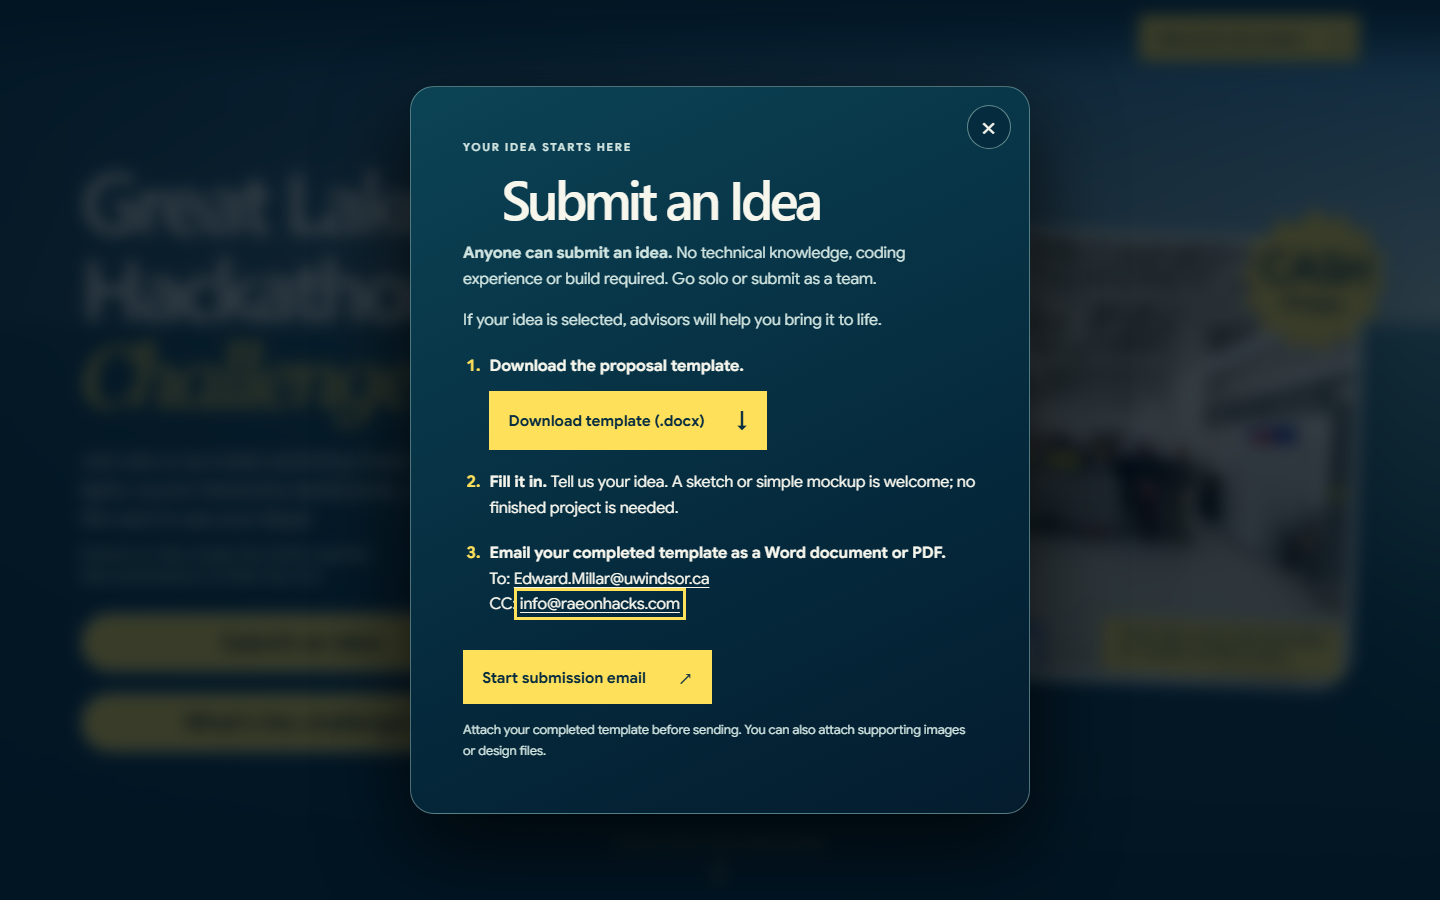
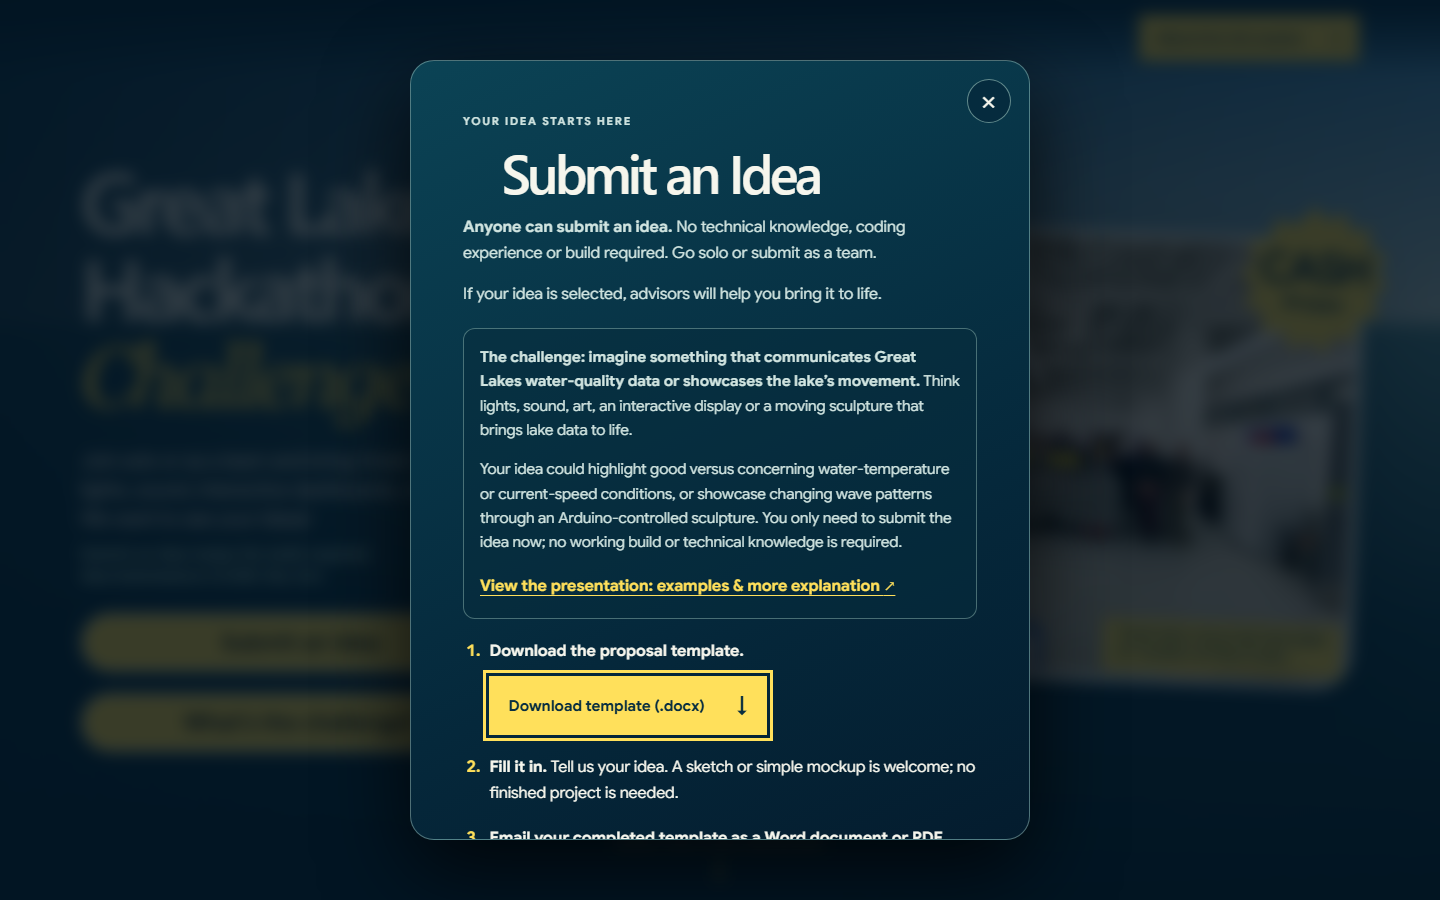
Add presentation and lake movement submission guidance

Changed region(s): [[0.2812, 0.0622, 0.7188, 0.9333]]

diff --git a/src/styles/glhc003.css b/src/styles/glhc003.css
@@ -115,6 +115,9 @@ html.intro-active{overflow:hidden}
 .submission-steps a:not(.button){overflow-wrap:anywhere;text-underline-offset:3px}
 .submission-download,.submission-email{margin-top:.75rem;min-height:44px;font-size:.95rem;white-space:normal}
 .submission-note{font-size:.8rem;margin:1rem 0 0}
+.submission-inspiration{padding:1rem;border:1px solid #b9e3d560;border-radius:12px;background:#052b3b80;margin:1.25rem auto;max-width:620px}
+.submission-inspiration p{font-size:.95rem}
+.submission-presentation{display:block;color:var(--yellow);font-weight:700;line-height:1.5;text-underline-offset:4px;overflow-wrap:anywhere;padding:.25rem 0}
 .submission-fallback>.submission-email{display:flex;width:fit-content;margin-inline:auto}
 .info-session-dialog{position:fixed;inset:0;width:min(620px,calc(100% - 1.5rem));max-width:620px;max-height:min(90dvh,780px);margin:auto;padding:0;border:1px solid #9ac2bc80;border-radius:24px;overflow:auto;background:linear-gradient(155deg,#0b4355,#05283b 65%,#041c2e);box-shadow:0 30px 85px #000b;color:#f6f6ed}
 .info-session-dialog::backdrop{background:rgba(1,14,25,.78);backdrop-filter:blur(8px)}

diff --git a/LOG.md b/LOG.md
@@ -277,3 +277,9 @@
 - Both To/CC instructions match website addresses. Hosted byte-for-byte unchanged,39,312 bytes,SHA2568debde5c40602d83d5041df0c77cfad304d7b09f5ebaebb822b52052e70e2850. Updated repeatable UAT expected hash.
 - Verification: production build/diff pass; local HTTP200 download exactly matches final organizer attachment. Evidence updated-template-results.json. No layout/application change; prior full UI UAT remains applicable, earlier binary hashes historical. No merge/deployment/email sent.
 - Status: done; publish review handoff to PR#8. Next action: organizer review.
+
+### 2026-11-05 - Presentation and lake-movement submission guidance
+- Task: add organizer presentation before DOCX download and clarify eligible ideas. Status: done, PR#8 follow-up. Active launch initiative retained; synced main8420ade, preserved unrelated files.
+- Changed: shared modal/no-JS instructions include exact supplied SharePoint URL with secure new-tab semantics. Emphasize water-quality data OR lake movement, temperature/current examples and Arduino-controlled wave-pattern sculpture. Retain idea-only/no-technical-knowledge invitation and advisor support.
+- Verification: production build/diff pass; four-size production-preview UAT at320x568,393x852,1440x900,568x320 confirms exact URL/attributes/order before download, expanded copy, no horizontal overflow, modal keyboard/close behavior and unchanged download hash. Narrow screenshot visually reviewed. Updated evidence in uat/glhc003/submission-launch/. Existing Vite warning remains.
+- Live state: presentation could not be retrieved by web tool, so content/public sharing access not claimed. No merge/deployment/email. Next action: organizer reviews updated PR#8. Commit: published handoff.

diff --git a/NOW.md b/NOW.md
@@ -186,3 +186,7 @@ Next action: organizer reviews launch PR, updates the template, then authorizes
 merge/deployment. No production deployment or external email sent.
 
 Final template follow-up (2026-11-05): organizer supplied complete replacement DOCX, hosted unchanged on PR#8. Both submission instructions now use Edward.Millar@uwindsor.ca and CC info@raeonhacks.com, matching the modal. Template-address issue resolved. Build and exact HTTP download checks pass; evidence uat/glhc003/submission-launch/updated-template-results.json. Prior template references/hashes are historical. Next action: organizer reviews PR#8. No merge/deployment performed.
+
+Submission guidance follow-up (2026-11-05): before the DOCX download, both modal and no-JS instructions include the organizer-supplied SharePoint presentation link (secure new tab) and explain that ideas may communicate water-quality data OR showcase lake movement. Examples include temperature/current-speed conditions and an Arduino-controlled sculpture reflecting wave patterns. Idea-only submissions require no technical knowledge or working build. Presentation content/public sharing could not be verified through web access; do not claim it was inspected.
+
+Presentation guidance verification: build/diff and four-size production-preview UAT pass; exact link/order/security attributes, revised water/lake-movement copy and modal fit/focus/download checked. Evidence refreshed in uat/glhc003/submission-launch/. No deployment performed.

diff --git a/PROJECT.md b/PROJECT.md
@@ -103,3 +103,5 @@ at organizer request; its .ca CC is awaiting the organizer's later file update.
 The website's .com CC is explicitly confirmed. Do not silently edit the template.
 
 Final template follow-up (2026-11-05): organizer supplied complete replacement DOCX, hosted unchanged on PR#8. Both submission instructions now use Edward.Millar@uwindsor.ca and CC info@raeonhacks.com, matching the modal. Template-address issue resolved. Build and exact HTTP download checks pass; evidence uat/glhc003/submission-launch/updated-template-results.json. Prior template references/hashes are historical. Next action: organizer reviews PR#8. No merge/deployment performed.
+
+Submission guidance follow-up (2026-11-05): before the DOCX download, both modal and no-JS instructions include the organizer-supplied SharePoint presentation link (secure new tab) and explain that ideas may communicate water-quality data OR showcase lake movement. Examples include temperature/current-speed conditions and an Arduino-controlled sculpture reflecting wave patterns. Idea-only submissions require no technical knowledge or working build. Presentation content/public sharing could not be verified through web access; do not claim it was inspected.

diff --git a/TASKS.md b/TASKS.md
@@ -53,3 +53,5 @@ older .ca address inside DOCX later. Four-size/browser/no-JS/normal-motion UAT,
 20 tests, Astro check and build pass. No deployment performed.
 
 Final template follow-up (2026-11-05): organizer supplied complete replacement DOCX, hosted unchanged on PR#8. Both submission instructions now use Edward.Millar@uwindsor.ca and CC info@raeonhacks.com, matching the modal. Template-address issue resolved. Build and exact HTTP download checks pass; evidence uat/glhc003/submission-launch/updated-template-results.json. Prior template references/hashes are historical. Next action: organizer reviews PR#8. No merge/deployment performed.
+
+Submission guidance follow-up (2026-11-05): before the DOCX download, both modal and no-JS instructions include the organizer-supplied SharePoint presentation link (secure new tab) and explain that ideas may communicate water-quality data OR showcase lake movement. Examples include temperature/current-speed conditions and an Arduino-controlled sculpture reflecting wave patterns. Idea-only submissions require no technical knowledge or working build. Presentation content/public sharing could not be verified through web access; do not claim it was inspected.

diff --git a/LIVE-STATE.md b/LIVE-STATE.md
@@ -31,3 +31,5 @@ organizer request and will be updated by organizer later.
 2026-11-05 updated attachment: replacement proposal DOCX is 39,243 bytes; SHA256 1a524116245462ca805bf46ac74401fb586b039fc9ea8f4a1f3a7d9df6922ad3. Exact bytes hosted in local built preview; no production deployment verified. Earlier template hash is historical.
 
 Final replacement attachment supersedes intermediate file above:39,312 bytes,SHA2568debde5c40602d83d5041df0c77cfad304d7b09f5ebaebb822b52052e70e2850. Both CC instructions are now .com. Local built-preview HTTP download verified; no public deployment verified.
+
+2026-11-05 presentation follow-up: source adds organizer-supplied SharePoint presentation link before proposal download, with secure new-tab attributes. Automated web access could not retrieve the presentation; contents/public permissions are not verified. No production change or deployment performed.
